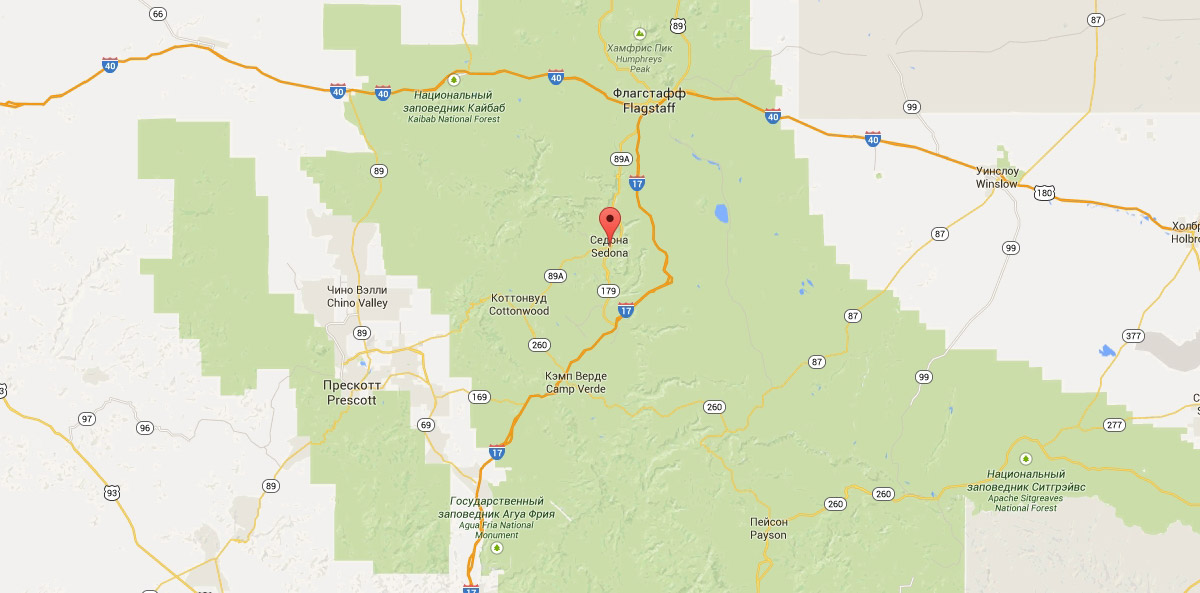
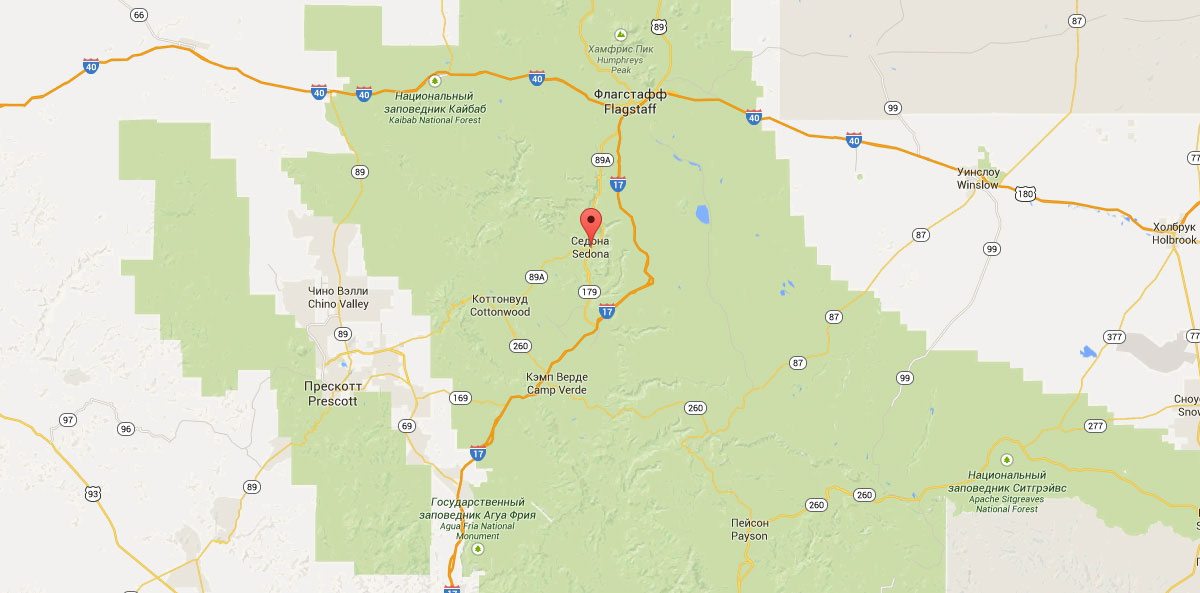
готовый Index без модалки

diff --git a/index.html b/index.html
@@ -85,10 +85,10 @@
                <button class="button button-run-search" type="submit" value="Найти">Найти</button>
              </form>
            </div>
-           <!-- <p class="index-maps">
-             <img class="maps" src="img/maps.jpg" width="" height="" alt="Седона на карте">
-           </p> -->
          </section>
+         <div class="index-maps">
+          <img class="maps" src="img/maps.jpg" width="1200" height="" alt="Седона на карте">
+        </div>
        </main>
        
 <!-- end main -->
@@ -109,8 +109,6 @@
            <a class="footer-copyright-link" href="https://htmlacademy.ru/intensive/htmlcss">
              <p class="footer-copyright">Website by <span class="visually-hidden">HTML ACADEMY</span></p>
              <svg id="Layer_1" data-name="Layer 1" xmlns="http://www.w3.org/2000/svg" width="115" height="41" viewBox="0 0 113 39"><title>logo_name</title><path d="M401.93,351.51a2.07,2.07,0,0,0,.58-0.11v1.4a3.41,3.41,0,0,1-1.24.22,1.75,1.75,0,0,1-1.75-1,5.08,5.08,0,0,1-3.3,1.13c-1.59,0-3.06-.87-3.06-2.68,0-2.24,2.08-2.93,3.9-2.93a11.63,11.63,0,0,1,2.28.26v-0.31c0-1.09-.8-1.86-2.3-1.86a7.79,7.79,0,0,0-3.15.67v-1.79a10.72,10.72,0,0,1,3.35-.58c2.48,0,4,1.18,4,3.83v3.14A0.57,0.57,0,0,0,401.93,351.51Zm-6.76-1.19a1.42,1.42,0,0,0,1.64,1.29,3.56,3.56,0,0,0,2.53-1V349.1a10.21,10.21,0,0,0-1.9-.22C396.34,348.89,395.17,349.23,395.17,350.33Z" transform="translate(-355.09 -323.29)" fill="#fff"/><path d="M408.15,343.91a5.29,5.29,0,0,1,2.7.67v1.79a4.28,4.28,0,0,0-2.42-.73,2.89,2.89,0,1,0,0,5.76,5.26,5.26,0,0,0,2.55-.67v1.8a6.58,6.58,0,0,1-2.9.6,4.42,4.42,0,0,1-4.72-4.54A4.54,4.54,0,0,1,408.15,343.91Z" transform="translate(-355.09 -323.29)" fill="#fff"/><path d="M420.93,351.51a2.07,2.07,0,0,0,.58-0.11v1.4a3.41,3.41,0,0,1-1.24.22,1.75,1.75,0,0,1-1.75-1,5.08,5.08,0,0,1-3.3,1.13c-1.59,0-3.06-.87-3.06-2.68,0-2.24,2.08-2.93,3.9-2.93a11.63,11.63,0,0,1,2.28.26v-0.31c0-1.09-.8-1.86-2.3-1.86a7.79,7.79,0,0,0-3.15.67v-1.79a10.72,10.72,0,0,1,3.35-.58c2.48,0,4,1.18,4,3.83v3.14A0.57,0.57,0,0,0,420.93,351.51Zm-6.76-1.19a1.42,1.42,0,0,0,1.64,1.29,3.56,3.56,0,0,0,2.53-1V349.1a10.21,10.21,0,0,0-1.9-.22C415.33,348.89,414.17,349.23,414.17,350.33Z" transform="translate(-355.09 -323.29)" fill="#fff"/><path d="M431.76,340.14V352.9H430v-1.39a4.07,4.07,0,0,1-3.35,1.62,4.62,4.62,0,0,1,0-9.22,4,4,0,0,1,3.15,1.37v-5.14h2ZM427,345.62a2.9,2.9,0,0,0,0,5.8,3,3,0,0,0,2.79-1.84v-2.13A3.06,3.06,0,0,0,427,345.62Z" transform="translate(-355.09 -323.29)" fill="#fff"/><path d="M438.08,343.91c3.48,0,4.68,2.81,4.12,5.34h-6.58c0.22,1.57,1.75,2.22,3.35,2.22a6.41,6.41,0,0,0,2.77-.62v1.68a7.5,7.5,0,0,1-3.14.6c-2.68,0-5-1.53-5-4.61A4.39,4.39,0,0,1,438.08,343.91Zm0.09,1.62a2.39,2.39,0,0,0-2.57,2.26h4.85A2.06,2.06,0,0,0,438.17,345.53Z" transform="translate(-355.09 -323.29)" fill="#fff"/><path d="M444.19,352.9v-8.75h1.73v1.09a4,4,0,0,1,2.92-1.33,3,3,0,0,1,2.73,1.4,4.33,4.33,0,0,1,3.06-1.4,3.21,3.21,0,0,1,3.32,3.52v5.47h-2v-5.41a1.67,1.67,0,0,0-1.73-1.84,2.94,2.94,0,0,0-2.17,1.18c0,0.2,0,.4,0,0.6v5.47h-2v-5.41a1.67,1.67,0,0,0-1.73-1.84,3.11,3.11,0,0,0-2.32,1.35v5.91h-2Z" transform="translate(-355.09 -323.29)" fill="#fff"/><path d="M466.56,344.15h2l-4.1,9.93c-0.95,2.28-2.19,3-3.52,3a5,5,0,0,1-1.15-.15v-1.66a3,3,0,0,0,.89.13c0.95,0,1.66-.67,2.17-2l0.18-.44-4.16-8.82H461l3,6.6Z" transform="translate(-355.09 -323.29)" fill="#fff"/><path d="M395.75,324.82v5a4,4,0,0,1,2.83-1.2,3.41,3.41,0,0,1,3.61,3.57v5.41h-2v-5.16a1.9,1.9,0,0,0-2-2.1,3.08,3.08,0,0,0-2.44,1.46v5.8h-2V324.82h2Z" transform="translate(-355.09 -323.29)" fill="#fff"/><path d="M407.52,325.71v3.12h3.17v1.71h-3.17v4c0,1.15.53,1.53,1.66,1.53a4.71,4.71,0,0,0,1.77-.35v1.68a7.14,7.14,0,0,1-2.35.38,2.68,2.68,0,0,1-3-2.88v-4.38H404v-1.71h1.57v-2.64Z" transform="translate(-355.09 -323.29)" fill="#fff"/><path d="M413.19,337.58v-8.75h1.73v1.09a4,4,0,0,1,2.92-1.33,3,3,0,0,1,2.73,1.4,4.33,4.33,0,0,1,3.06-1.4,3.21,3.21,0,0,1,3.32,3.52v5.47h-2v-5.41a1.67,1.67,0,0,0-1.73-1.84,2.94,2.94,0,0,0-2.17,1.18c0,0.2,0,.4,0,0.6v5.47h-2v-5.41a1.67,1.67,0,0,0-1.73-1.84,3.11,3.11,0,0,0-2.32,1.35v5.91h-2Z" transform="translate(-355.09 -323.29)" fill="#fff"/><rect x="74.72" y="1.52" width="1.95" height="12.76" fill="#fff"/><path d="M370.53,323.31l-0.16,0-15.28,1.6v28L370.37,362l15.28-9.09v-28Zm13.12,28.45-13.28,7.9-13.28-7.9V340.28l13.22,7.87,0,1.43-9.07-5.4v1.38l9.11,5.47,0,1.46-9.1-5.42v1.38l9.11,5.47h0l9.19-5.5v-1.39h0v-4.52l4.1-2.45v11.67Zm0-13.16L380,340.74h0l-1.68,1-8-4.76v1.38l6.84,4.07-0.06,0-0.15.09-1,.57-5.64-3.36v1.38l4.45,2.65-1.05.7,0,0-3.36-2v1.38l2.21,1.3-2.25,1.35-13.16-7.82,13.17-7.92h0Zm0-1.39-13.35-7.87h0l-13.2,7.86v-10.5l13.28-1.39,13.28,1.39v10.51Z" transform="translate(-355.09 -323.29)" fill="#fff"/></svg>
-
-             <!-- <img src="/img/logo-academy-footer.svg" width="115" height="41" alt="Лого HTML Academy"> -->
            </a> 
          </div>
        </footer>

diff --git a/hotels.html b/hotels.html
@@ -150,10 +150,10 @@
            </ul>
          </div>
          <div class="footer-copyright-block">
-           <p class="footer-copyright"><a href="https://htmlacademy.ru/intensive/htmlcss">Website by <span class="visually-hidden">HTML ACADEMY</span></a></p>
-           <a class="foter-academy-logo" href="https://htmlacademy.ru/intensive/htmlcss">
-             <img src="/img/logo-academy-footer.svg" width="115" height="41" alt="Лого HTML Academy">
-           </a>
+           <a class="footer-copyright-link" href="https://htmlacademy.ru/intensive/htmlcss">
+             <p class="footer-copyright">Website by <span class="visually-hidden">HTML ACADEMY</span></p>
+             <svg id="Layer_1" data-name="Layer 1" xmlns="http://www.w3.org/2000/svg" width="115" height="41" viewBox="0 0 113 39"><title>logo_name</title><path d="M401.93,351.51a2.07,2.07,0,0,0,.58-0.11v1.4a3.41,3.41,0,0,1-1.24.22,1.75,1.75,0,0,1-1.75-1,5.08,5.08,0,0,1-3.3,1.13c-1.59,0-3.06-.87-3.06-2.68,0-2.24,2.08-2.93,3.9-2.93a11.63,11.63,0,0,1,2.28.26v-0.31c0-1.09-.8-1.86-2.3-1.86a7.79,7.79,0,0,0-3.15.67v-1.79a10.72,10.72,0,0,1,3.35-.58c2.48,0,4,1.18,4,3.83v3.14A0.57,0.57,0,0,0,401.93,351.51Zm-6.76-1.19a1.42,1.42,0,0,0,1.64,1.29,3.56,3.56,0,0,0,2.53-1V349.1a10.21,10.21,0,0,0-1.9-.22C396.34,348.89,395.17,349.23,395.17,350.33Z" transform="translate(-355.09 -323.29)" fill="#fff"/><path d="M408.15,343.91a5.29,5.29,0,0,1,2.7.67v1.79a4.28,4.28,0,0,0-2.42-.73,2.89,2.89,0,1,0,0,5.76,5.26,5.26,0,0,0,2.55-.67v1.8a6.58,6.58,0,0,1-2.9.6,4.42,4.42,0,0,1-4.72-4.54A4.54,4.54,0,0,1,408.15,343.91Z" transform="translate(-355.09 -323.29)" fill="#fff"/><path d="M420.93,351.51a2.07,2.07,0,0,0,.58-0.11v1.4a3.41,3.41,0,0,1-1.24.22,1.75,1.75,0,0,1-1.75-1,5.08,5.08,0,0,1-3.3,1.13c-1.59,0-3.06-.87-3.06-2.68,0-2.24,2.08-2.93,3.9-2.93a11.63,11.63,0,0,1,2.28.26v-0.31c0-1.09-.8-1.86-2.3-1.86a7.79,7.79,0,0,0-3.15.67v-1.79a10.72,10.72,0,0,1,3.35-.58c2.48,0,4,1.18,4,3.83v3.14A0.57,0.57,0,0,0,420.93,351.51Zm-6.76-1.19a1.42,1.42,0,0,0,1.64,1.29,3.56,3.56,0,0,0,2.53-1V349.1a10.21,10.21,0,0,0-1.9-.22C415.33,348.89,414.17,349.23,414.17,350.33Z" transform="translate(-355.09 -323.29)" fill="#fff"/><path d="M431.76,340.14V352.9H430v-1.39a4.07,4.07,0,0,1-3.35,1.62,4.62,4.62,0,0,1,0-9.22,4,4,0,0,1,3.15,1.37v-5.14h2ZM427,345.62a2.9,2.9,0,0,0,0,5.8,3,3,0,0,0,2.79-1.84v-2.13A3.06,3.06,0,0,0,427,345.62Z" transform="translate(-355.09 -323.29)" fill="#fff"/><path d="M438.08,343.91c3.48,0,4.68,2.81,4.12,5.34h-6.58c0.22,1.57,1.75,2.22,3.35,2.22a6.41,6.41,0,0,0,2.77-.62v1.68a7.5,7.5,0,0,1-3.14.6c-2.68,0-5-1.53-5-4.61A4.39,4.39,0,0,1,438.08,343.91Zm0.09,1.62a2.39,2.39,0,0,0-2.57,2.26h4.85A2.06,2.06,0,0,0,438.17,345.53Z" transform="translate(-355.09 -323.29)" fill="#fff"/><path d="M444.19,352.9v-8.75h1.73v1.09a4,4,0,0,1,2.92-1.33,3,3,0,0,1,2.73,1.4,4.33,4.33,0,0,1,3.06-1.4,3.21,3.21,0,0,1,3.32,3.52v5.47h-2v-5.41a1.67,1.67,0,0,0-1.73-1.84,2.94,2.94,0,0,0-2.17,1.18c0,0.2,0,.4,0,0.6v5.47h-2v-5.41a1.67,1.67,0,0,0-1.73-1.84,3.11,3.11,0,0,0-2.32,1.35v5.91h-2Z" transform="translate(-355.09 -323.29)" fill="#fff"/><path d="M466.56,344.15h2l-4.1,9.93c-0.95,2.28-2.19,3-3.52,3a5,5,0,0,1-1.15-.15v-1.66a3,3,0,0,0,.89.13c0.95,0,1.66-.67,2.17-2l0.18-.44-4.16-8.82H461l3,6.6Z" transform="translate(-355.09 -323.29)" fill="#fff"/><path d="M395.75,324.82v5a4,4,0,0,1,2.83-1.2,3.41,3.41,0,0,1,3.61,3.57v5.41h-2v-5.16a1.9,1.9,0,0,0-2-2.1,3.08,3.08,0,0,0-2.44,1.46v5.8h-2V324.82h2Z" transform="translate(-355.09 -323.29)" fill="#fff"/><path d="M407.52,325.71v3.12h3.17v1.71h-3.17v4c0,1.15.53,1.53,1.66,1.53a4.71,4.71,0,0,0,1.77-.35v1.68a7.14,7.14,0,0,1-2.35.38,2.68,2.68,0,0,1-3-2.88v-4.38H404v-1.71h1.57v-2.64Z" transform="translate(-355.09 -323.29)" fill="#fff"/><path d="M413.19,337.58v-8.75h1.73v1.09a4,4,0,0,1,2.92-1.33,3,3,0,0,1,2.73,1.4,4.33,4.33,0,0,1,3.06-1.4,3.21,3.21,0,0,1,3.32,3.52v5.47h-2v-5.41a1.67,1.67,0,0,0-1.73-1.84,2.94,2.94,0,0,0-2.17,1.18c0,0.2,0,.4,0,0.6v5.47h-2v-5.41a1.67,1.67,0,0,0-1.73-1.84,3.11,3.11,0,0,0-2.32,1.35v5.91h-2Z" transform="translate(-355.09 -323.29)" fill="#fff"/><rect x="74.72" y="1.52" width="1.95" height="12.76" fill="#fff"/><path d="M370.53,323.31l-0.16,0-15.28,1.6v28L370.37,362l15.28-9.09v-28Zm13.12,28.45-13.28,7.9-13.28-7.9V340.28l13.22,7.87,0,1.43-9.07-5.4v1.38l9.11,5.47,0,1.46-9.1-5.42v1.38l9.11,5.47h0l9.19-5.5v-1.39h0v-4.52l4.1-2.45v11.67Zm0-13.16L380,340.74h0l-1.68,1-8-4.76v1.38l6.84,4.07-0.06,0-0.15.09-1,.57-5.64-3.36v1.38l4.45,2.65-1.05.7,0,0-3.36-2v1.38l2.21,1.3-2.25,1.35-13.16-7.82,13.17-7.92h0Zm0-1.39-13.35-7.87h0l-13.2,7.86v-10.5l13.28-1.39,13.28,1.39v10.51Z" transform="translate(-355.09 -323.29)" fill="#fff"/></svg>
+           </a> 
          </div>
        </footer>
 <!-- end footer -->

diff --git a/css/style.css b/css/style.css
@@ -87,11 +87,6 @@ a {
    color: black;
    background-color: #ffffff;
    width: 100%;
-
-  
-
-
-      
    box-sizing: border-box;
 
 }
@@ -126,7 +121,7 @@ a {
    padding-right: 72px;
    padding-left: 72px;
    
-   justify-content: space-between;
+   justify-content: flex-start;
    align-items: center;
    
 }
@@ -137,24 +132,30 @@ a {
    padding-top: 15px;
 }
 
-.main-menu-button:nth-child(1),
-.main-menu-button:nth-child(2) {
+.main-menu-button:nth-child(4n-3),
+.main-menu-button:nth-child(4n-2) {
   text-align: left;
 }
 
-.main-menu-button:nth-child(3),
-.main-menu-button:nth-child(4) {
+.main-menu-button:nth-child(4n-1),
+.main-menu-button:nth-child(4n) {
   text-align: right;
 }
 
+.main-menu-button:nth-child(4n-1) a {
+   margin-right: -21px;
+}
 
-.main-menu-button:nth-child(4n+2) {
-   margin-left: -70px;
+.main-menu-button:nth-child(4n-2) a {
+   margin-left: -21px;
+}
+/* .main-menu-button:nth-child(4n+2) {
+   margin-right: ;
  }
  
  .main-menu-button:nth-child(4n+3) {
-   padding-left: -70px;
- }
+   margin-right: ;
+ } */
 /* ################################### */
 
 .index-intro {
@@ -247,37 +248,45 @@ a {
    align-content: center;
    flex-direction: column;
    width: 100%;
-   height: 290px;
+   
    margin: 0px;
    
    background-color: #ffffff;
 }
 
 .index-hotel-search-text-container {
-   height: 205;
+   width: 100%;
 }
 
-.index-hotel-search h2 {
+.index-hotel-search-text-container h2 {
    font-size: 30px;
    line-height: 36px;
    text-align: center;
+   margin: 0px;
+   padding-top: 62px;
+   padding-bottom: 24px;
 }
+
 
 .hotel-search {
    font-size: 14px;
    line-height: 24px;
    font-weight: 400;
    text-align: center;
-   color: #333333;  
+   color: #333333; 
+   margin: 0px;
+   padding-bottom: 49px; 
 }
+
 
 .button-hotel-search {
    font-size: 21px;
    line-height: 26px;
    
    padding-top: 30px;
+   padding-bottom: 30px;
    width: 568px;
-   height: 55px;
+  
    
    margin-top: 0px;
    margin-left: 50%;
@@ -301,6 +310,10 @@ a {
 
 .modal-search {
    display: none;
+   position: absolute;
+   background-position: 50% 50%;
+   width: 568px;
+   justify-content: center;
 }
 
 .search-form input {
@@ -346,6 +359,15 @@ a {
    transition: all .5s;
 }
 
+.index-maps {
+   position: relative;
+   margin: 0px;
+   padding: 0px;
+}
+
+.maps {
+   display: block;
+}
 /* ################################### */
 
 .container {
@@ -450,13 +472,15 @@ a {
    font-weight: 400;
 }
 
+
 /* ################################### */
 
 
 .main-footer {
    display: flex;
+   position: relative;
    width: 100%;
-   
+   margin-top: -120px;
    background-color: rgba(255, 255, 255, 0.9);
    padding-right: 73px;
    padding-left: 73px;
@@ -612,12 +636,13 @@ ul.social-list {
    width: 196px;
    box-sizing: border-box;
    justify-content: space-between;
+   
 }
 
 .footer-copyright-link path,
 .footer-copyright-link rect {
    fill: #000;
-
+   transition: all .2s;
 }
 
 .footer-copyright-link:hover path,
